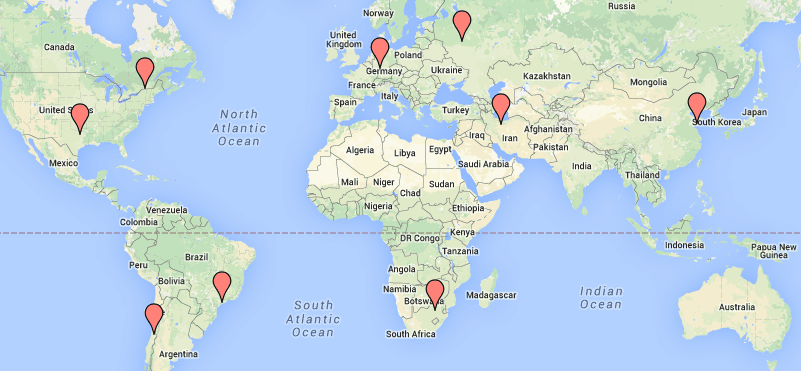
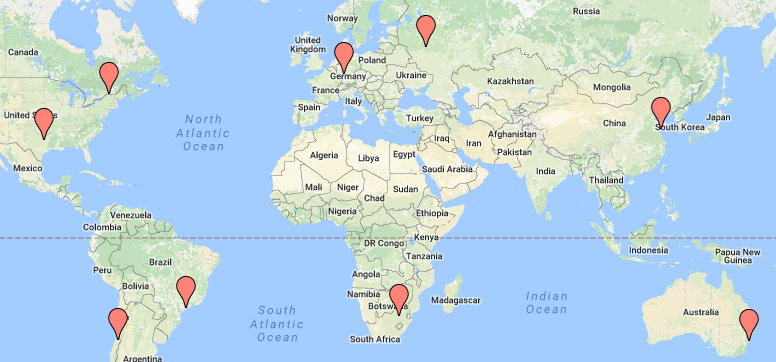
AUS

diff --git a/www/staff/index.html b/www/staff/index.html
@@ -89,6 +89,9 @@ menu: |
   <li><a href="/players/garry/">garry</a></li>
   <li><a href="/players/Super/">Super</a></li>
 </ul>
+<h4>AUS</h4>
+<ul class="staff">
+  <li><a href="/players/Lem0n/">Lem0n</a></li>
 </ul>
 <h3>Vanilla Moderators</h3>
 <ul class="staff">
